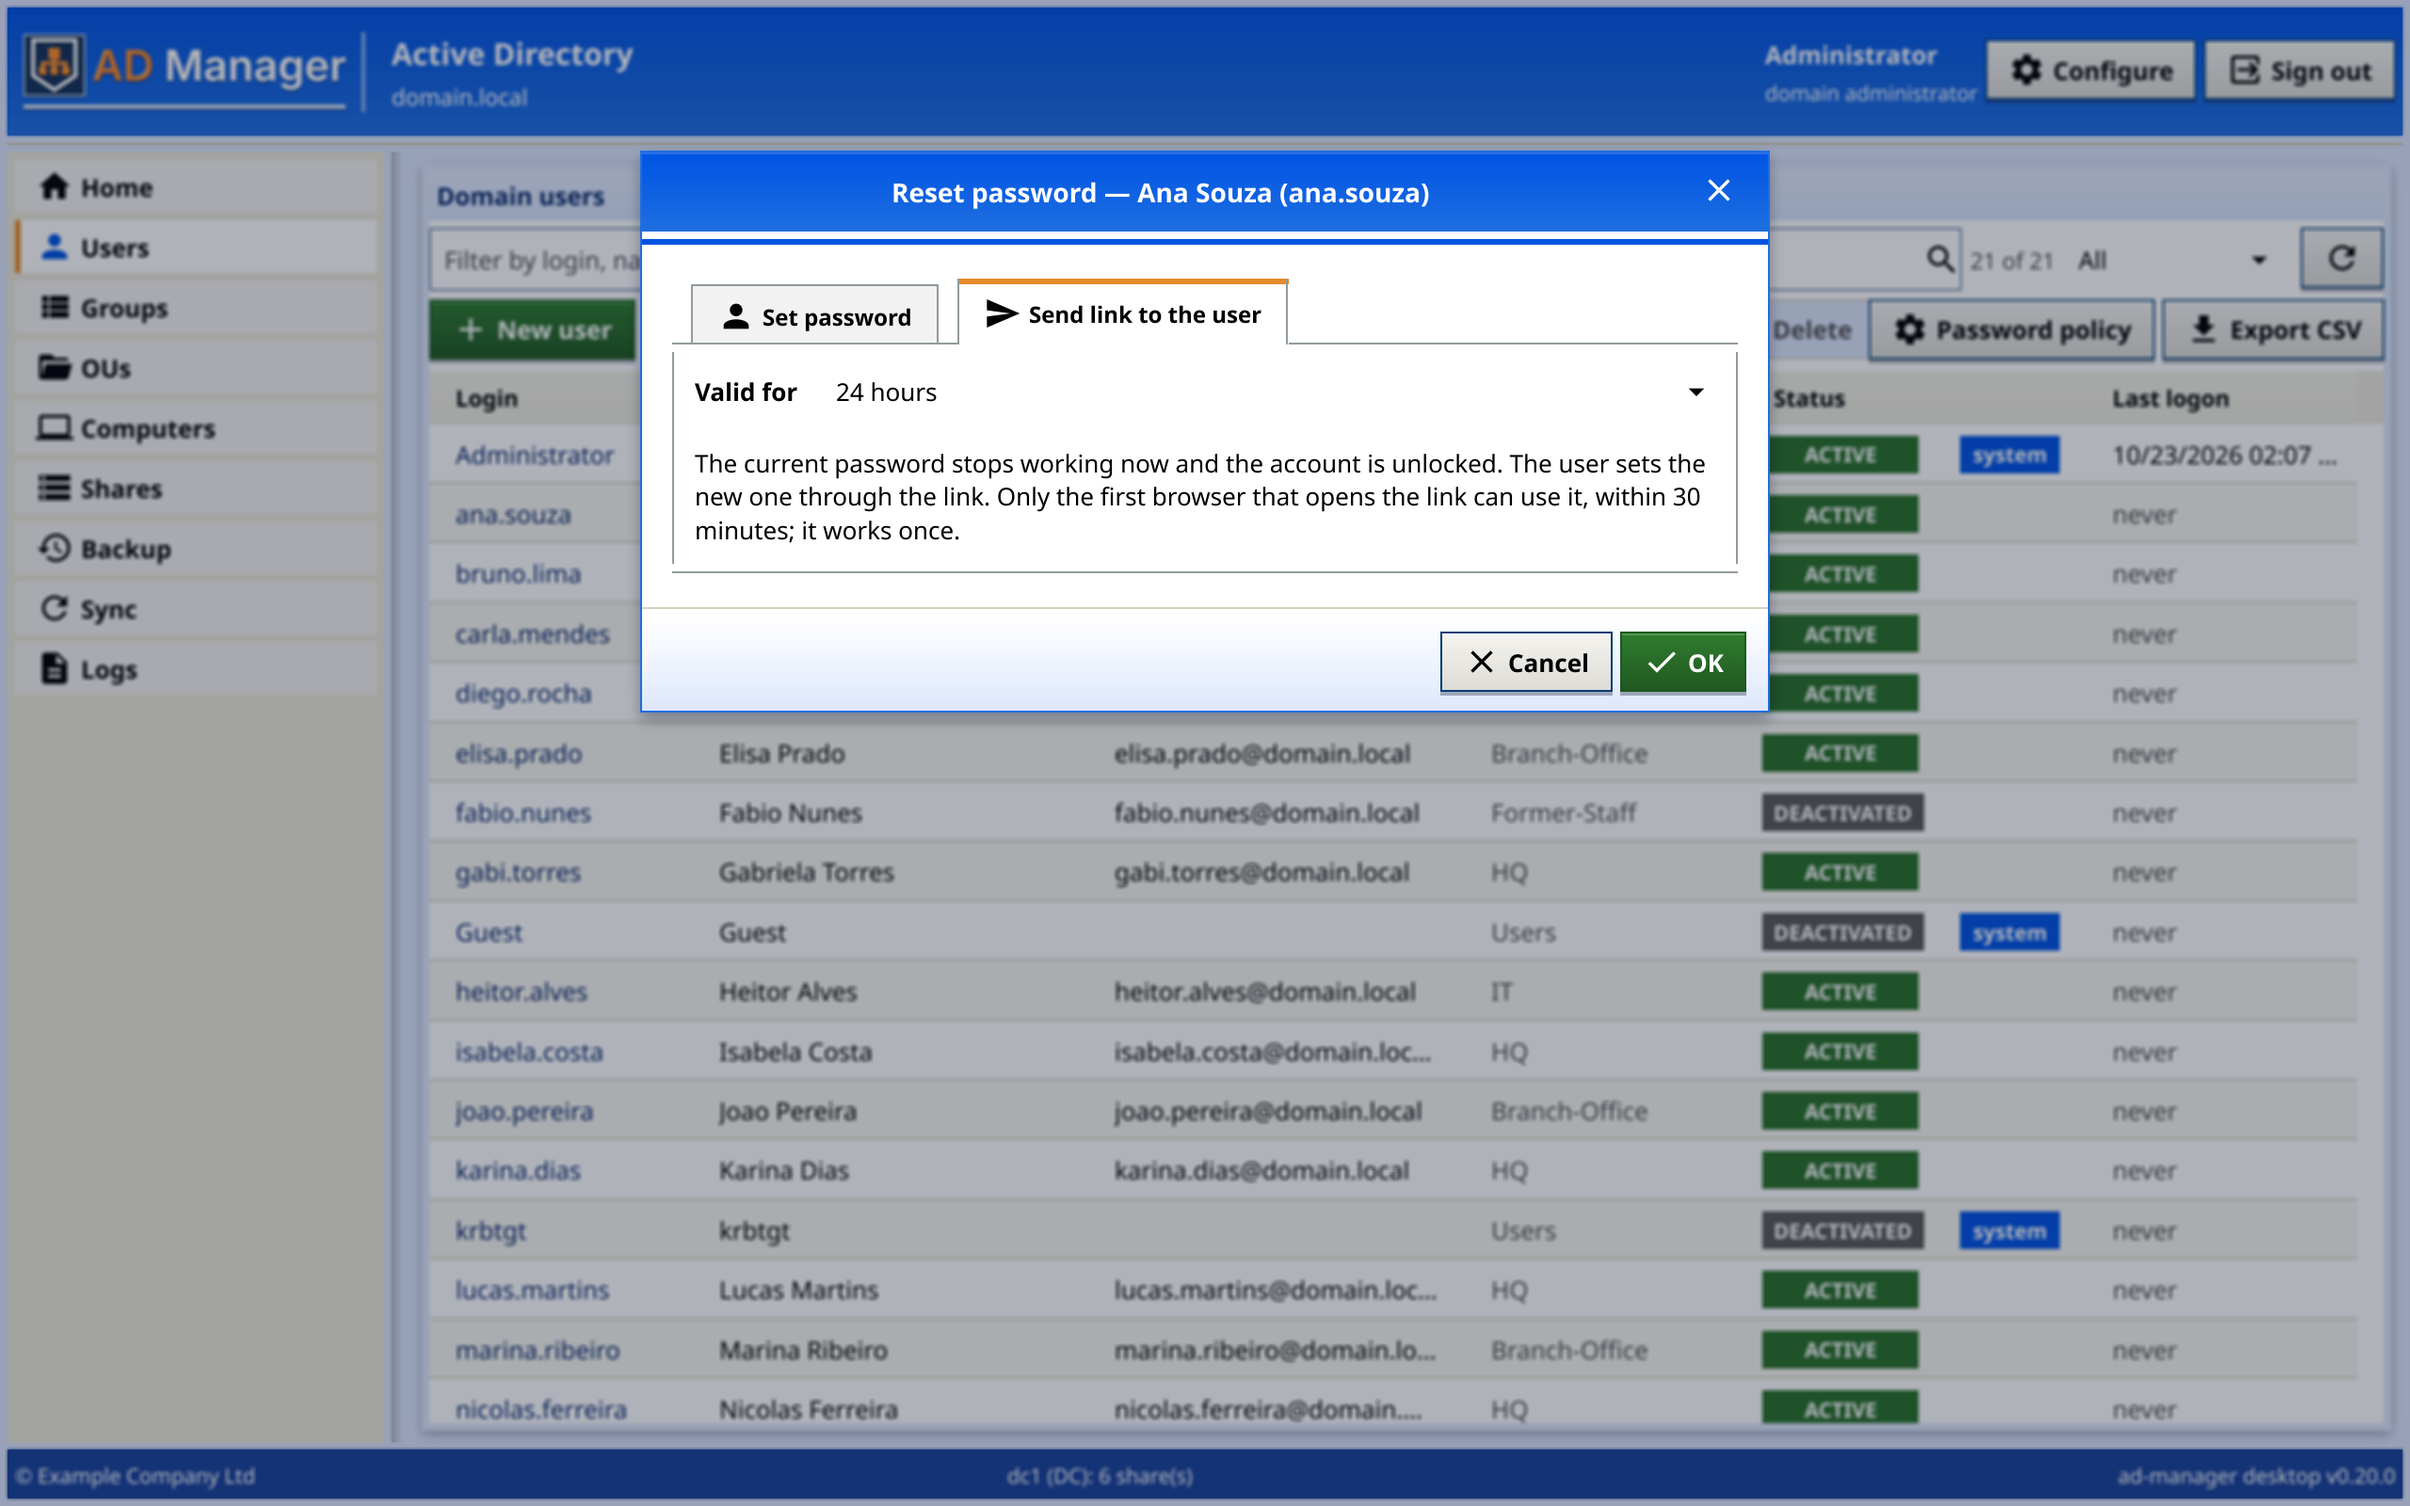
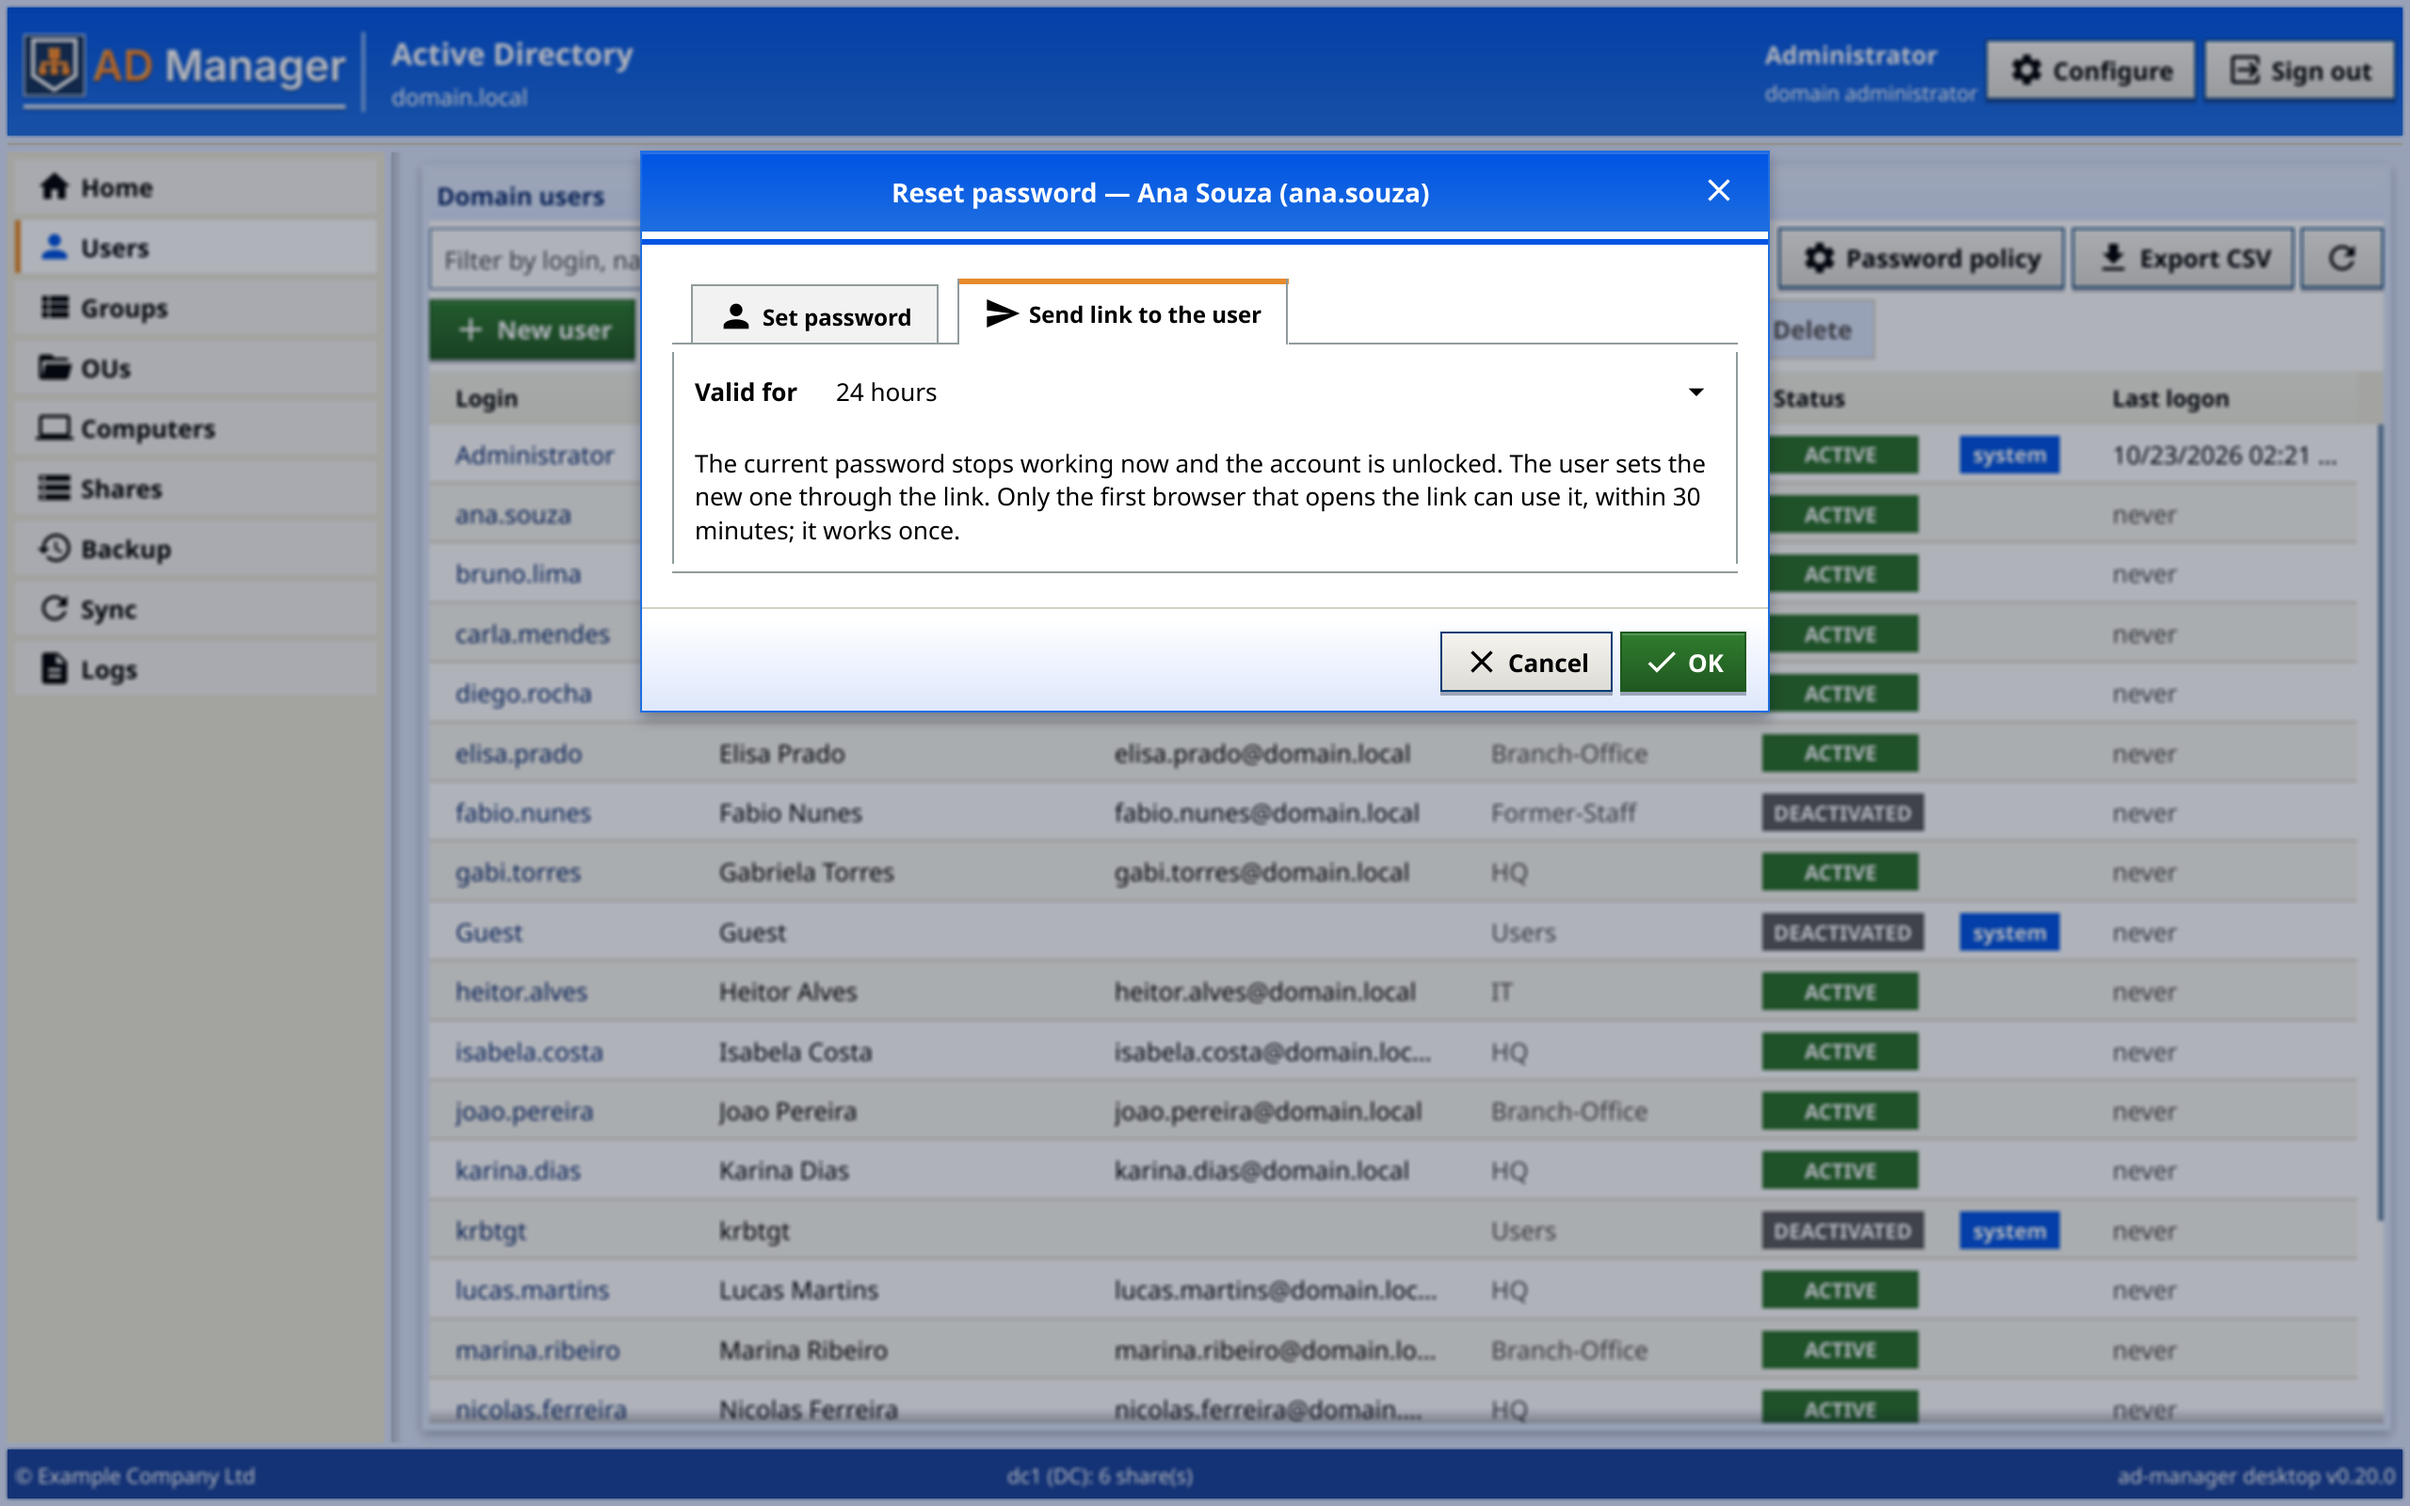
feat(desktop): the Users toolbar on as few lines as fit
The search field took a whole line of its own above the actions. The
toolbar now lays out on as few lines as the window allows: wide, one
line with the search, filter and count, the actions and Password policy
/ Export CSV / Refresh; narrower, those three behind a ⋯ menu; narrow,
the actions on a second line with the extras still beside the search;
narrowest, the second line and ⋯. The search gives way first (down to
220 px). Screenshots of Users and its dialogs retaken.

Changed region(s): [[0.7188, 0.125, 1.0, 0.25], [0.1875, 0.9375, 0.7188, 0.9688], [0.8125, 0.9375, 1.0, 0.9688]]

diff --git a/desktop/toolbar.go b/desktop/toolbar.go
@@ -1,0 +1,106 @@
+package main
+
+import (
+	"fyne.io/fyne/v2"
+	"fyne.io/fyne/v2/container"
+	"fyne.io/fyne/v2/theme"
+	"fyne.io/fyne/v2/widget"
+)
+
+// toolbarRow lays out a list page's toolbar on as few lines as fit: the search field (it gives way first, down to
+// searchMin), the filter and count (info), the action buttons, and the extras — or, when they do not fit, the ⋯ button
+// that holds them. Wide: one line with everything; narrower: one line with ⋯; narrow: the actions on a second line,
+// the extras still on the first; narrowest: the second line and ⋯.
+type toolbarRow struct {
+	searchMin float32
+	lines     int             // lines the last layout used (MinSize reports their height)
+	relayout  func()          // asks the window to lay out again when the number of lines changes
+	box       *fyne.Container // [search, info, actions, extras, more]
+}
+
+// newToolbarRow builds the toolbar; relayout is called when it changes between one and two lines.
+func newToolbarRow(search, info, actions, extras, more fyne.CanvasObject, relayout func()) fyne.CanvasObject {
+	l := &toolbarRow{searchMin: 220, lines: 1, relayout: relayout}
+	l.box = container.New(l, search, info, actions, extras, more)
+	return l.box
+}
+
+func (l *toolbarRow) height(objs []fyne.CanvasObject) float32 {
+	h := float32(0)
+	for _, o := range objs {
+		h = max(h, o.MinSize().Height)
+	}
+	return h
+}
+
+// MinSize is the narrowest layout's (two lines, ⋯) width and the height of the lines in use.
+func (l *toolbarRow) MinSize(objs []fyne.CanvasObject) fyne.Size {
+	p := theme.Padding()
+	line := l.height(objs)
+	w := max(l.searchMin+p+objs[1].MinSize().Width+p+objs[4].MinSize().Width, objs[2].MinSize().Width)
+	return fyne.NewSize(w, line*float32(l.lines)+p*float32(l.lines-1))
+}
+
+func (l *toolbarRow) Layout(objs []fyne.CanvasObject, size fyne.Size) {
+	search, info, actions, extras, more := objs[0], objs[1], objs[2], objs[3], objs[4]
+	p := theme.Padding()
+	line := l.height(objs)
+	iw, aw, ew, mw := info.MinSize().Width, actions.MinSize().Width, extras.MinSize().Width, more.MinSize().Width
+	lines, right := 1, ew
+	switch {
+	case size.Width >= l.searchMin+iw+aw+ew+3*p: // everything on one line
+	case size.Width >= l.searchMin+iw+aw+mw+3*p: // one line, the extras behind ⋯
+		right = mw
+	case size.Width >= l.searchMin+iw+ew+2*p: // the actions on a second line, the extras stay on the first
+		lines = 2
+	default: // the actions on a second line, the extras behind ⋯
+		lines, right = 2, mw
+	}
+	showIf(right == ew, extras)
+	showIf(right == mw, more)
+	place := func(o fyne.CanvasObject, x, y, w float32) {
+		h := o.MinSize().Height
+		o.Resize(fyne.NewSize(w, h))
+		o.Move(fyne.NewPos(x, y+(line-h)/2))
+	}
+	sw := size.Width - iw - right - 2*p
+	if lines == 1 {
+		sw -= aw + p
+	}
+	place(search, 0, 0, sw)
+	place(info, sw+p, 0, iw)
+	if lines == 1 {
+		place(actions, sw+p+iw+p, 0, aw)
+	} else {
+		place(actions, 0, line+p, aw)
+	}
+	if right == ew {
+		place(extras, size.Width-ew, 0, ew)
+	} else {
+		place(more, size.Width-mw, 0, mw)
+	}
+	if lines != l.lines {
+		l.lines = lines
+		if l.relayout != nil {
+			l.relayout()
+		}
+	}
+}
+
+// showIf shows o when on, hides it otherwise (only when that changes).
+func showIf(on bool, o fyne.CanvasObject) {
+	if on && !o.Visible() {
+		o.Show()
+	} else if !on && o.Visible() {
+		o.Hide()
+	}
+}
+
+// moreButton is the ⋯ button: a menu of the toolbar's extras, for when they do not fit.
+func (u *ui) moreButton(items ...*fyne.MenuItem) *volButton {
+	var b *volButton
+	b = newButton("", theme.MoreHorizontalIcon(), func() {
+		widget.ShowPopUpMenuAtRelativePosition(fyne.NewMenu("", items...), u.w.Canvas(), fyne.NewPos(0, b.Size().Height), b)
+	})
+	return b
+}

diff --git a/desktop/toolbar_test.go b/desktop/toolbar_test.go
@@ -1,0 +1,53 @@
+package main
+
+import (
+	"testing"
+
+	"fyne.io/fyne/v2"
+	"fyne.io/fyne/v2/canvas"
+	"fyne.io/fyne/v2/theme"
+)
+
+// TestToolbarRow: everything on one line when it fits, the extras behind ⋯ when they do not, the actions on a
+// second line when even that does not fit; the search field gives way first and asks for a relayout only when the
+// number of lines changes.
+func TestToolbarRow(t *testing.T) {
+	rect := func(w float32) *canvas.Rectangle {
+		r := canvas.NewRectangle(nil)
+		r.SetMinSize(fyne.NewSize(w, 30))
+		return r
+	}
+	search, info, actions, extras, more := rect(10), rect(200), rect(760), rect(270), rect(40)
+	relayouts := 0
+	box := newToolbarRow(search, info, actions, extras, more, func() { relayouts++ }).(*fyne.Container)
+	p := theme.Padding()
+	for _, c := range []struct {
+		width         float32
+		extras, lines int
+	}{
+		{1700, 1, 1}, // 220 + 200 + 760 + 270 + 3p fits
+		{1300, 0, 1}, // without the extras: 220 + 200 + 760 + 40 + 3p
+		{900, 1, 2},  // the actions below, the extras on the first line: 220 + 200 + 270 + 2p
+		{600, 0, 2},  // the actions below, the extras behind ⋯
+		{1700, 1, 1},
+	} {
+		box.Resize(fyne.NewSize(c.width, 100))
+		box.Layout.Layout(box.Objects, box.Size())
+		if extras.Visible() != (c.extras == 1) || more.Visible() == (c.extras == 1) {
+			t.Fatalf("%v: extras %v, more %v", c.width, extras.Visible(), more.Visible())
+		}
+		lines := 1
+		if actions.Position().Y > 0 {
+			lines = 2
+		}
+		if lines != c.lines || box.MinSize().Height != 30*float32(c.lines)+p*float32(c.lines-1) {
+			t.Fatalf("%v: %d lines, min height %v", c.width, lines, box.MinSize().Height)
+		}
+		if search.Size().Width < 220 {
+			t.Fatalf("%v: search %v wide", c.width, search.Size().Width)
+		}
+	}
+	if relayouts != 2 { // to two lines and back
+		t.Fatalf("%d relayouts", relayouts)
+	}
+}

diff --git a/desktop/page_users.go b/desktop/page_users.go
@@ -265,12 +265,20 @@ func (u *ui) usersPage() fyne.CanvasObject {
 	policyBtn := newButton(t("Password policy"), theme.SettingsIcon(), u.policyDialog) // as the web Users toolbar
 	updateButtons()
 	reload()
-	top := container.NewBorder(nil, nil, nil, container.NewHBox(container.NewCenter(count), filter,
-		newButton("", theme.ViewRefreshIcon(), reload)), search)
-	toolbar := container.NewBorder(nil, nil,
+	refresh := newButton("", theme.ViewRefreshIcon(), reload)
+	// one line when it fits (search, filter and count, the actions, the extras), as the web Users toolbar
+	toolbar := newToolbarRow(search, container.NewHBox(filter, container.NewCenter(count)),
 		container.NewHBox(newBtn, copyBtn, editBtn, widget.NewSeparator(), pwBtn, unlockBtn, toggleBtn, moveBtn, delBtn),
-		container.NewHBox(policyBtn, export))
-	return container.NewPadded(card(t("Domain users"), container.NewBorder(container.NewVBox(top, toolbar), nil, nil, nil, tab.view())))
+		container.NewHBox(policyBtn, export, refresh),
+		u.moreButton(fyne.NewMenuItem(t("Password policy"), u.policyDialog),
+			fyne.NewMenuItem(t("Export CSV"), func() { u.downloadExport("users", t("users.csv")) }),
+			fyne.NewMenuItem(t("Refresh"), reload)),
+		func() {
+			if c := u.w.Content(); c != nil { // laid out again with the toolbar's new height
+				c.Refresh()
+			}
+		})
+	return container.NewPadded(card(t("Domain users"), container.NewBorder(toolbar, nil, nil, nil, tab.view())))
 }
 
 // userEntries builds one entry per userFields item, filled from x.

diff --git a/openspec/changes/desktop-policy-dialog/proposal.md b/openspec/changes/desktop-policy-dialog/proposal.md
@@ -8,6 +8,10 @@ toolbar (0.15.0). The desktop app still has it as its own side-menu page, so the
 - Desktop: the side menu loses **Password policy**; the Users toolbar gets a **Password policy** button (beside
   Export CSV) that opens the policy in a dialog — the same fields, ranges, weak-policy warning and confirmation as
   before. Home's policy alert ("see ›") goes to Users and opens the dialog.
+- The Users toolbar takes as few lines as the window allows (`toolbarRow`): wide, one line with the search, the
+  filter and count, the actions and Password policy / Export CSV / Refresh; narrower, one line with those three
+  behind a ⋯ menu; narrow, the actions on a second line with the extras still on the first; narrowest, the second
+  line and ⋯. The search field gives way first (down to 220 px).
 - Home builds its tiles before asking the panel for the totals (a quick answer recolored stripes not yet made).
 - Screenshots of the desktop retaken (the side menu changed everywhere); `desktop-13-password-policy.png` is the
   dialog over Users.
@@ -20,6 +24,6 @@ toolbar (0.15.0). The desktop app still has it as its own side-menu page, so the
 
 ## Impact
 
-`desktop/page_policy.go` (`policyDialog`), `desktop/page_users.go`, `desktop/main.go` (navigation),
+`desktop/page_policy.go` (`policyDialog`), `desktop/page_users.go`, `desktop/toolbar.go` (+ test), `desktop/main.go` (navigation),
 `desktop/page_home.go`, the screenshot tests, `docs/desktop.md`, `docs/screenshots/desktop-*.png`, CHANGELOG. No API
 change.

diff --git a/openspec/changes/desktop-policy-dialog/specs/app-desktop/spec.md b/openspec/changes/desktop-policy-dialog/specs/app-desktop/spec.md
@@ -16,3 +16,16 @@ toolbar, as the web panel does, and SHALL NOT list it in the side menu.
 #### Scenario: Side menu
 - **WHEN** the app is signed in
 - **THEN** the side menu has no Password policy item
+
+### Requirement: Users toolbar on as few lines as fit
+The Users toolbar SHALL put the search field, the filter and count, the action buttons and the extras (Password
+policy, Export CSV, Refresh) on one line when the window is wide enough, letting the search field shrink first; when
+it is not, the extras SHALL go behind a ⋯ menu, and only then SHALL the actions move to a second line.
+
+#### Scenario: Wide window
+- **WHEN** the Users page is shown in a window wide enough for everything
+- **THEN** search, filter, count, the actions and the extras are on a single line
+
+#### Scenario: Default window
+- **WHEN** the window is 1280 px wide
+- **THEN** the actions are on a second line and the extras stay visible beside the search, with no ⋯

diff --git a/CHANGELOG.md b/CHANGELOG.md
@@ -8,6 +8,9 @@ All notable changes to this project are documented here. The format follows
 ### Changed
 - Desktop app: the **Password policy** is a dialog opened from the button of the same name on the **Users** toolbar,
   as in the web panel, no longer an item of the side menu; Home's policy alert opens it over Users.
+- Desktop app: the Users toolbar takes as few lines as fit — on a wide window the search, filter, actions, Password
+  policy and Export CSV share one line (the search gives way first); narrower, the extras go behind a ⋯ menu, and only
+  then do the actions move to a second line.
 - The desktop app reaches **only the panel**: the Shares page and the file servers' Samba logs list the servers
   registered in the panel and go through its proxy with your session, as Sync and Backup already did. The desktop
   no longer asks for, stores or sends a file-server agent token (that token is root on the file server), its

diff --git a/openspec/changes/desktop-policy-dialog/tasks.md b/openspec/changes/desktop-policy-dialog/tasks.md
@@ -3,5 +3,6 @@
 - [x] 1.1 `policyDialog` (the former page's form in a modal); Users toolbar button; navigation without the page;
       Home's alert opens the dialog over Users.
 - [x] 1.2 Home: load after the tiles exist.
+- [x] 1.4 `toolbarRow`: the Users toolbar on as few lines as fit (one line / ⋯ / two lines); `toolbar_test.go`.
 - [x] 1.3 Screenshots retaken (all-in-one `domain.local` for the panel pages, fixtures for Configure/Shares/Sync);
       `docs/desktop.md`; CHANGELOG.
